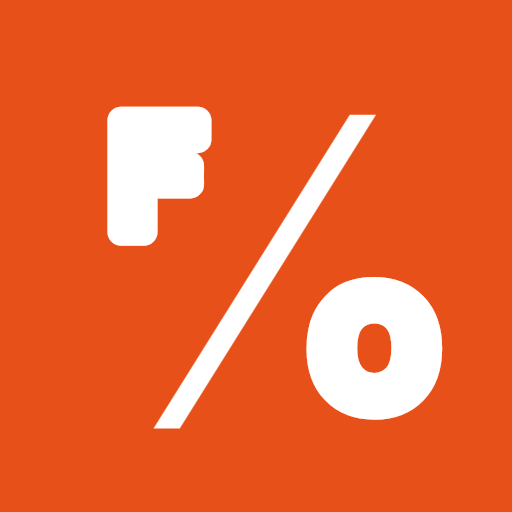
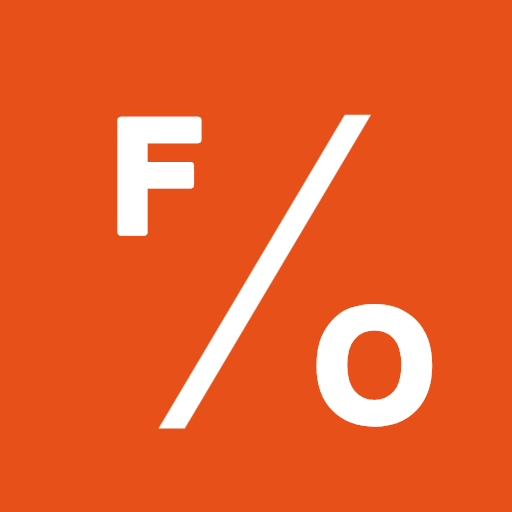
v8

diff --git a/generate-icons.html b/generate-icons.html
@@ -60,10 +60,10 @@ function drawIcon(canvas, maskable) {
   var slashExtra = 0;
 
   if (maskable) {
-    // Bigger, bolder for Android adaptive icon
+    // Bigger for Android adaptive icon safe zone
     s = s * 1.25;
-    strokeW = 22;
-    slashExtra = 8; // extra width on slash polygon
+    strokeW = 6;
+    slashExtra = 4;
     ctx.save();
     ctx.translate(size * -0.125, size * -0.125);
   }
@@ -93,12 +93,13 @@ function drawIcon(canvas, maskable) {
   ctx.fill();
 
   // "O" lower-right
+  var oYOffset = maskable ? 14 : 0;
   ctx.fillStyle = '#FFFFFF';
   ctx.font = 'bold ' + fontSize + 'px Arial, Helvetica, sans-serif';
   ctx.textAlign = 'end';
   ctx.textBaseline = 'alphabetic';
-  ctx.fillText('O', 399 * s, 374 * s);
-  ctx.strokeText('O', 399 * s, 374 * s);
+  ctx.fillText('O', 399 * s, (374 + oYOffset) * s);
+  ctx.strokeText('O', 399 * s, (374 + oYOffset) * s);
 
   if (maskable) ctx.restore();
 }
